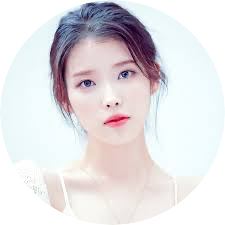
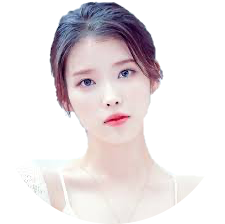
MH - 커밋

diff --git a/Final_Project/src/main/webapp/resources/css/admin/adminHeader.css b/Final_Project/src/main/webapp/resources/css/admin/adminHeader.css
@@ -64,9 +64,17 @@ nav{
     margin:auto;
     margin-bottom:10px;
 }
-.adminImg>img{
+.adminImg>label{
+	display:block;
     width:100%;
     height:100%;
+}
+#adminLabel>img{
+	width:100%;
+	height:100%;
+}
+#adminPic{
+	display:none;
 }
 .adminInfo{
     width:150px;
